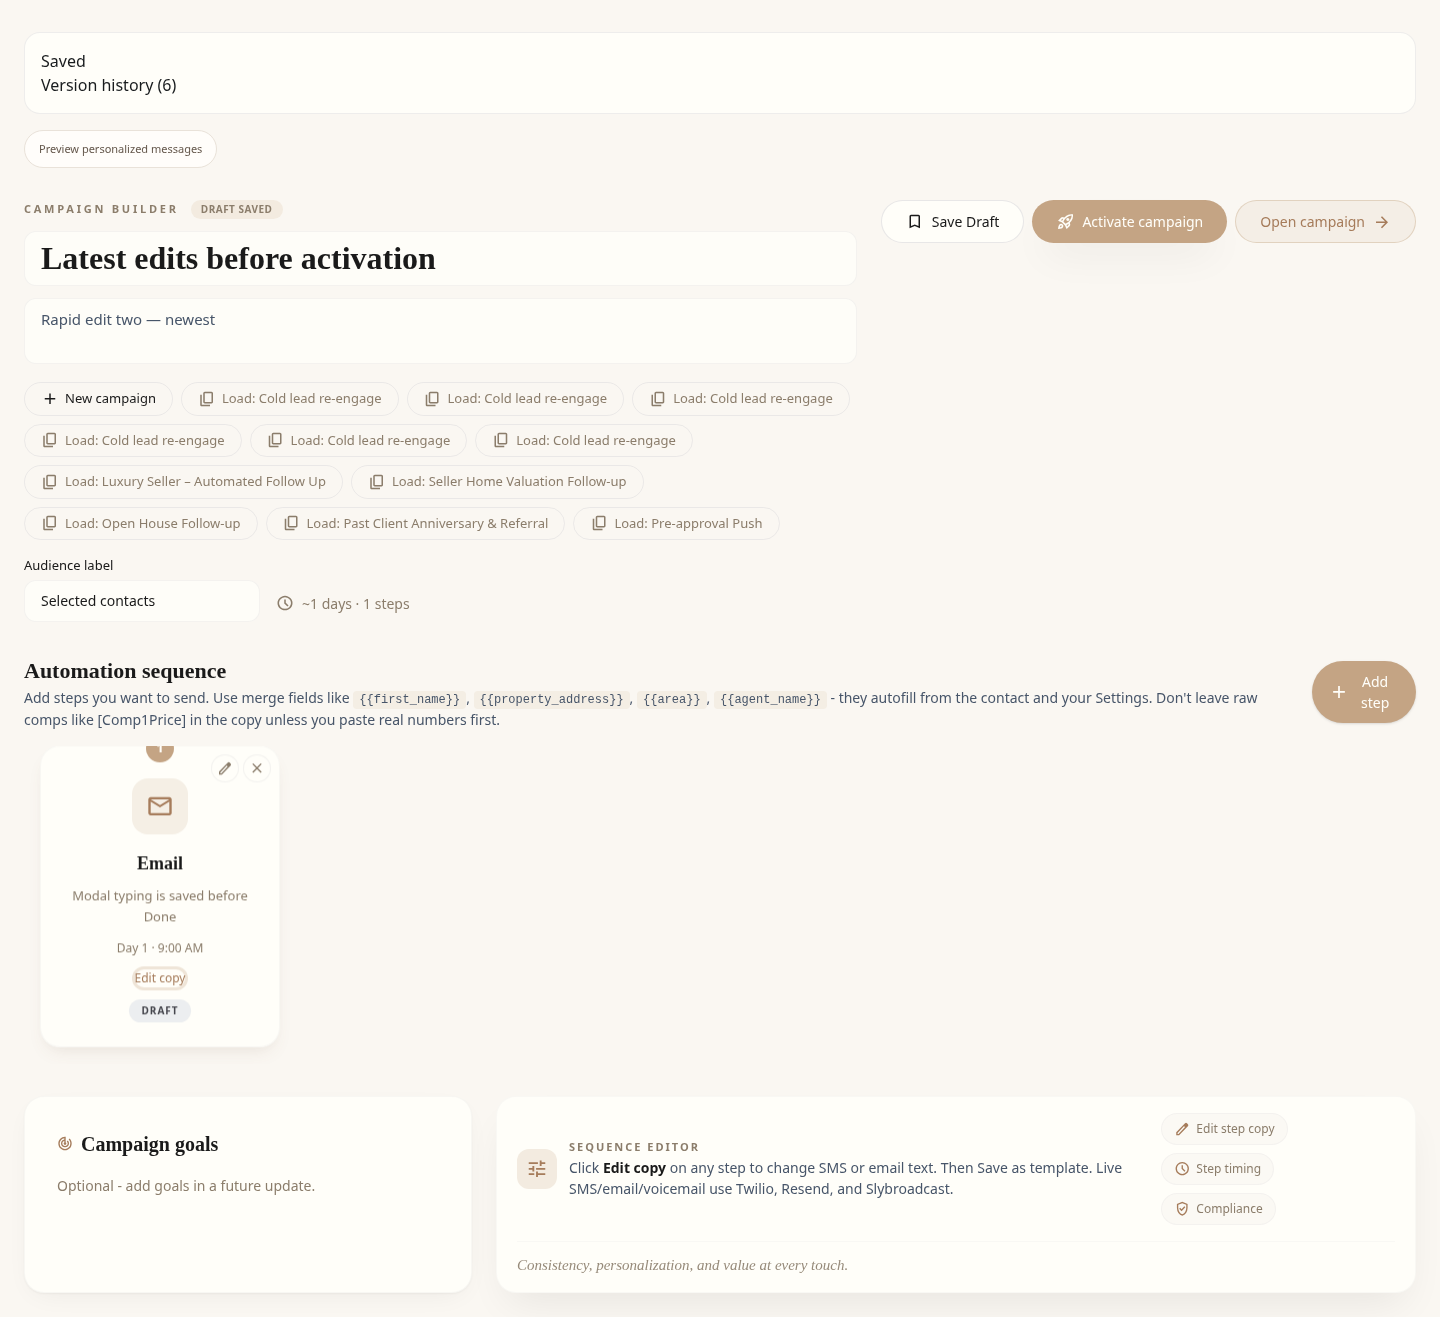
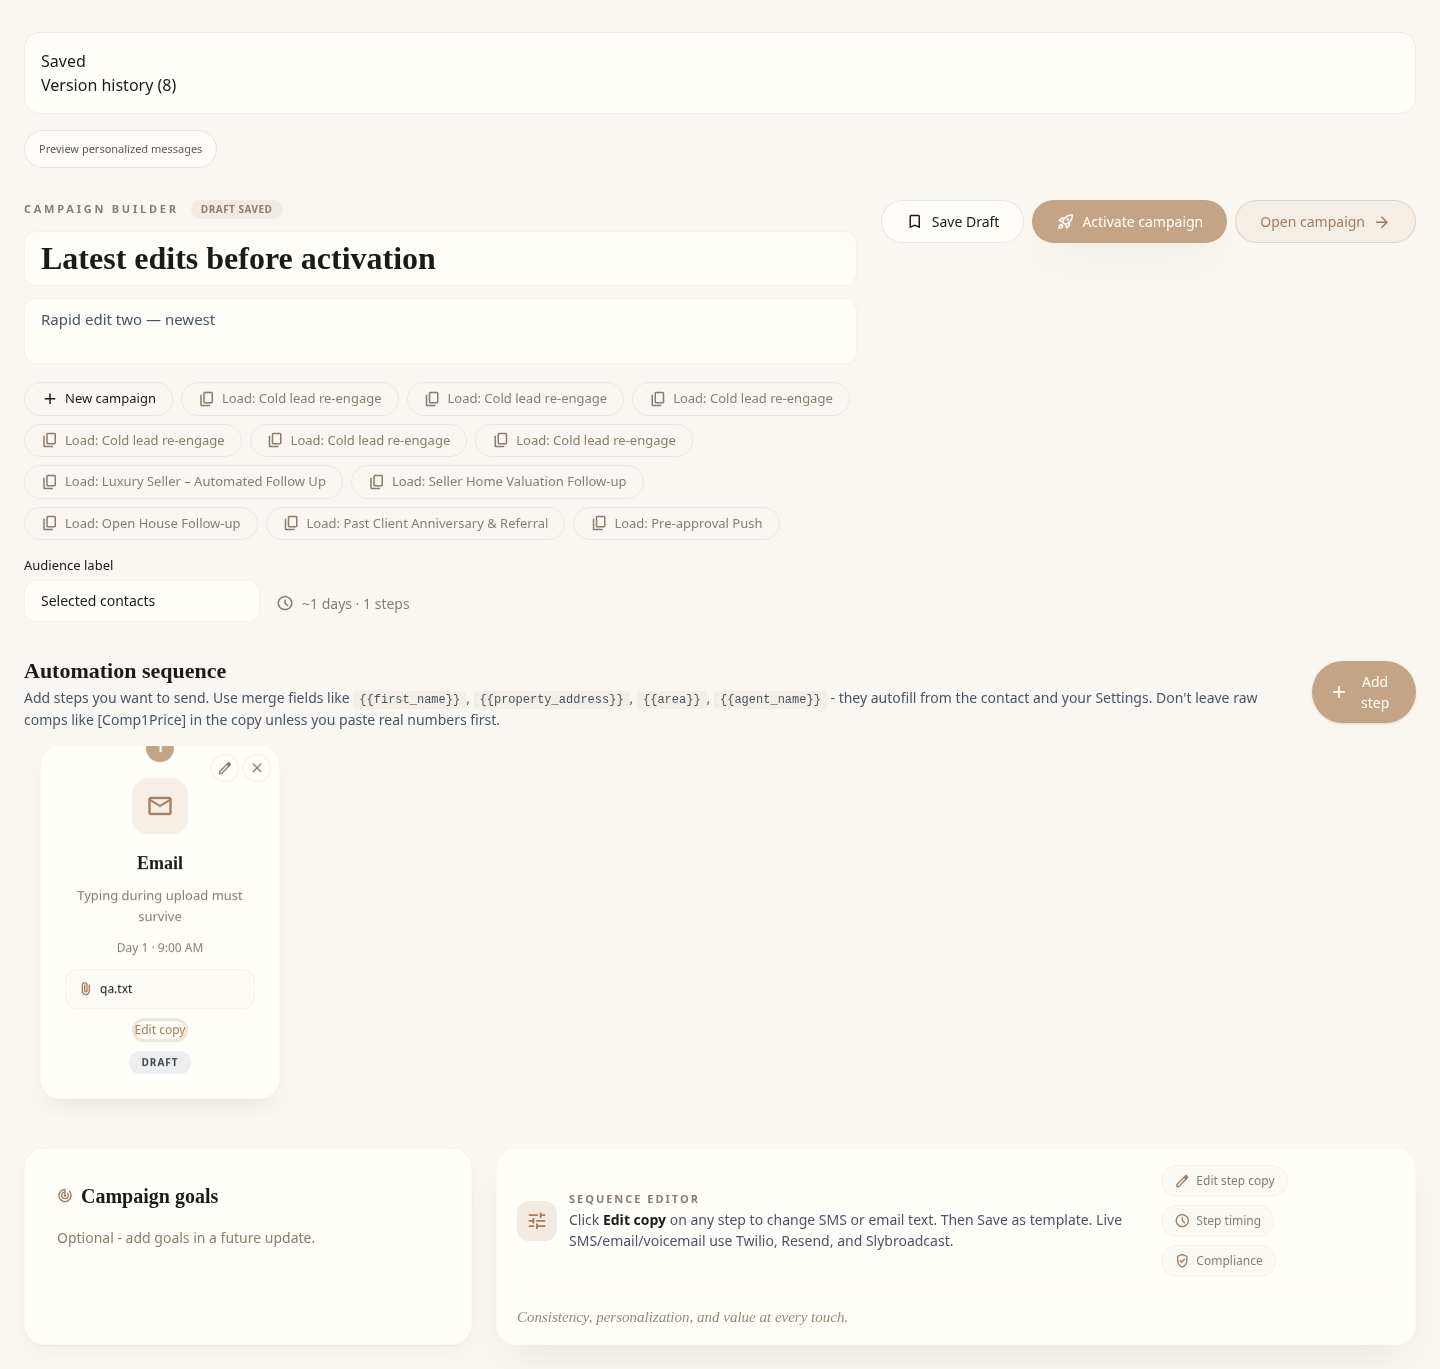
Recover first-save failures and preserve step copy during attachment uploads

diff --git a/components/crm/edit-campaign-step-modal.tsx b/components/crm/edit-campaign-step-modal.tsx
@@ -61,6 +61,7 @@ export function EditCampaignStepModal({
   const [uploading, setUploading] = useState(false);
   const [uploadError, setUploadError] = useState<string | null>(null);
   const fileInputRef = useRef<HTMLInputElement>(null);
+  const latestDraft = useRef<CampaignStep | null>(null);
 
   useEffect(() => {
     if (!open || !step) return;
@@ -83,21 +84,24 @@ export function EditCampaignStepModal({
       ? SMS_MMS_MIME_TYPES.join(",")
       : EMAIL_ATTACHMENT_MIME_TYPES.join(",");
 
-  const emitDraft = (patch: Partial<CampaignStep>) =>
-    onDraftChange?.({
-      ...step,
-      type,
-      title,
-      description,
-      dayLabel: `Day ${Math.max(1, day)}`,
-      delayMinutes:
-        `Day ${Math.max(1, day)}` === step.dayLabel
-          ? step.delayMinutes
-          : undefined,
-      timeLabel,
-      attachments,
-      ...patch,
-    });
+  latestDraft.current = {
+    ...step,
+    type,
+    title,
+    description,
+    dayLabel: `Day ${Math.max(1, day)}`,
+    delayMinutes:
+      `Day ${Math.max(1, day)}` === step.dayLabel
+        ? step.delayMinutes
+        : undefined,
+    timeLabel,
+    attachments,
+  };
+  const emitDraft = (patch: Partial<CampaignStep>) => {
+    const next = { ...latestDraft.current!, ...patch };
+    latestDraft.current = next;
+    onDraftChange?.(next);
+  };
   const handleSubmit = (e: React.FormEvent) => {
     e.preventDefault();
     if (onDraftChange) {
@@ -145,10 +149,22 @@ export function EditCampaignStepModal({
         file,
         type === "sms" ? "sms" : "email",
       );
+      if (
+        latestDraft.current?.id !== step.id ||
+        latestDraft.current.type !== type
+      ) {
+        setUploadError(
+          "The step changed during upload. Review it before attaching that file.",
+        );
+        return;
+      }
       const next =
         type === "sms"
           ? [uploaded]
-          : [...attachments, uploaded].slice(0, EMAIL_MAX_ATTACHMENTS);
+          : [...(latestDraft.current.attachments ?? []), uploaded].slice(
+              0,
+              EMAIL_MAX_ATTACHMENTS,
+            );
       setAttachments(next);
       emitDraft({ attachments: next });
     } catch (err) {

diff --git a/components/pages/stitch/CampaignBuilderPage.tsx b/components/pages/stitch/CampaignBuilderPage.tsx
@@ -94,6 +94,21 @@ export function CampaignBuilderPage() {
     setActivateOpen(false);
     setBoundOwner(userId);
   }, [userId, boundOwner, editId]);
+  const recoveryOwner = useRef<string | null>(null);
+  useEffect(() => {
+    if (!userId || recoveryOwner.current === userId) return;
+    recoveryOwner.current = userId;
+    if (editId || searchParams.get("new") || searchParams.get("premium"))
+      return;
+    try {
+      const pending = localStorage.getItem(
+        `myari:last-campaign-editor:${userId}`,
+      );
+      if (pending && /^[0-9a-f-]{36}$/i.test(pending)) setNewDraftId(pending);
+    } catch {
+      /* No storage is modified during recovery discovery. */
+    }
+  }, [userId, editId, searchParams]);
   const loadedEditorRef = useRef({ id: newDraftId, ready: baseReady });
   loadedEditorRef.current = { id: newDraftId, ready: baseReady };
   const draftDirtyRef = useRef(false);
@@ -153,8 +168,9 @@ export function CampaignBuilderPage() {
     setActivationKey(crypto.randomUUID());
     setCampaign(createBlankCampaign());
     setDbCampaignId(null);
+    router.replace("/dashboard/campaigns#campaign-builder", { scroll: false });
     setCampaignStatus("editing");
-  }, []);
+  }, [router]);
 
   const loadSampleTemplate = useCallback(
     (templateKey = "cold-lead-reengage") => {
@@ -172,12 +188,15 @@ export function CampaignBuilderPage() {
       if (!next) return;
       setCampaign(next);
       setDbCampaignId(null);
+      router.replace("/dashboard/campaigns#campaign-builder", {
+        scroll: false,
+      });
       setCampaignStatus("editing");
       showToast(
         `“${next.name}” template loaded - edit steps, then save or activate.`,
       );
     },
-    [],
+    [router],
   );
 
   useEffect(() => {

diff --git a/scripts/campaign-reliability/entry.jsx b/scripts/campaign-reliability/entry.jsx
@@ -25,10 +25,26 @@ w.fetch = async (input, options = {}) => {
   w.__requests.push({
     path: url.pathname,
     method,
-    body: options.body ? JSON.parse(options.body) : undefined,
+    body:
+      typeof options.body === "string" ? JSON.parse(options.body) : undefined,
   });
   if (w.__mode === "expired")
     return failure("Sign in required", "unauthorized", 401);
+  if (url.pathname === "/api/campaign-attachments/signed-upload")
+    return success({
+      attachment: {
+        id: "synthetic-file",
+        storagePath: w.__owner + "/attachments/qa.txt",
+        fileName: "qa.txt",
+        mimeType: "text/plain",
+        sizeBytes: 4,
+      },
+      signedUrl: location.origin + "/qa-upload",
+    });
+  if (url.pathname === "/qa-upload") {
+    await new Promise((resolve) => setTimeout(resolve, 1000));
+    return new Response(null, { status: 200 });
+  }
   if (url.pathname === "/api/voice-assets") return reply({ voiceAssets: [] });
   if (url.pathname === "/api/contacts/recipients")
     return reply({

diff --git a/app/api/campaigns/drafts/route.ts b/app/api/campaigns/drafts/route.ts
@@ -75,7 +75,23 @@ export const POST = withApiHandler(async (request: Request) => {
   const owner = await requireUserId();
   if (Number(request.headers.get("content-length") || 0) > 1500000)
     return apiError("Draft too large.", { status: 413 });
-  const text = await request.text();
+  const reader = request.body?.getReader(),
+    decoder = new TextDecoder();
+  let text = "",
+    size = 0;
+  if (reader) {
+    while (true) {
+      const chunk = await reader.read();
+      if (chunk.done) break;
+      size += chunk.value.byteLength;
+      if (size > 1500000) {
+        await reader.cancel();
+        return apiError("Draft too large.", { status: 413 });
+      }
+      text += decoder.decode(chunk.value, { stream: true });
+    }
+    text += decoder.decode();
+  }
   if (text.length > 1500000)
     return apiError("Draft too large.", { status: 413 });
   const b = Body.parse(JSON.parse(text));

diff --git a/lib/hooks/use-campaign-draft.ts b/lib/hooks/use-campaign-draft.ts
@@ -259,13 +259,18 @@ export function useCampaignDraft(
         "Local recovery storage unavailable. Keep this tab open until the server save succeeds.",
       );
     }
+    try {
+      localStorage.setItem(`myari:last-campaign-editor:${owner}`, id);
+    } catch {
+      /* Recovery file remains intact. */
+    }
     if (blocked.current) return;
     setState("Unsaved changes");
     const timer = setTimeout(() => {
       void save().catch(() => {});
     }, 1200);
     return () => clearTimeout(timer);
-  }, [campaign, dirty, hydrated, hydrationKey, ready, key, save]);
+  }, [campaign, dirty, hydrated, hydrationKey, ready, key, save, owner, id]);
   useEffect(() => {
     const warn = (event: BeforeUnloadEvent) => {
       if (dirty || busy.current) {

diff --git a/docs/campaign-reliability/RECOVERY-AND-RELEASE.md b/docs/campaign-reliability/RECOVERY-AND-RELEASE.md
@@ -15,7 +15,7 @@ No browser tool/session is available to inspect the founder's Mac. Do not claim 
 3. Alternatively, review then run `scripts/campaign-reliability/browser-recovery.js` in that page's DevTools Console. It reads only that key and downloads a private JSON file. It makes no API requests and does not write/clear storage. Do not enable browser paste protections blindly; review the source first.
 4. Inspect the actual descriptions/messages and `savedAt` fields. An attachment or campaign title alone does not establish recovery. The legacy key was not account-scoped, so inspect privately and do not share other users' text.
 
-The new editor never reads, migrates or overwrites that legacy key. It uses account/draft/session-scoped recovery files, retains failed edits, and offers explicit restoration. Separate tab files avoid one tab overwriting another's recovery copy. Confirmed local saves are marked; no local files are automatically deleted. Storage can be unavailable, exhausted, cleared by the user or lost in private browsing; server revisions remain the primary durable source.
+The new editor never reads, migrates or overwrites that legacy key. It retains an account-scoped pointer so a new draft whose first save fails is discoverable after refresh. It uses account/draft/session-scoped recovery files, retains failed edits, and offers explicit restoration. Separate tab files avoid one tab overwriting another's recovery copy. Confirmed local saves are marked; no local files are automatically deleted. Storage can be unavailable, exhausted, cleared by the user or lost in private browsing; server revisions remain the primary durable source.
 
 ## Implementation
 
